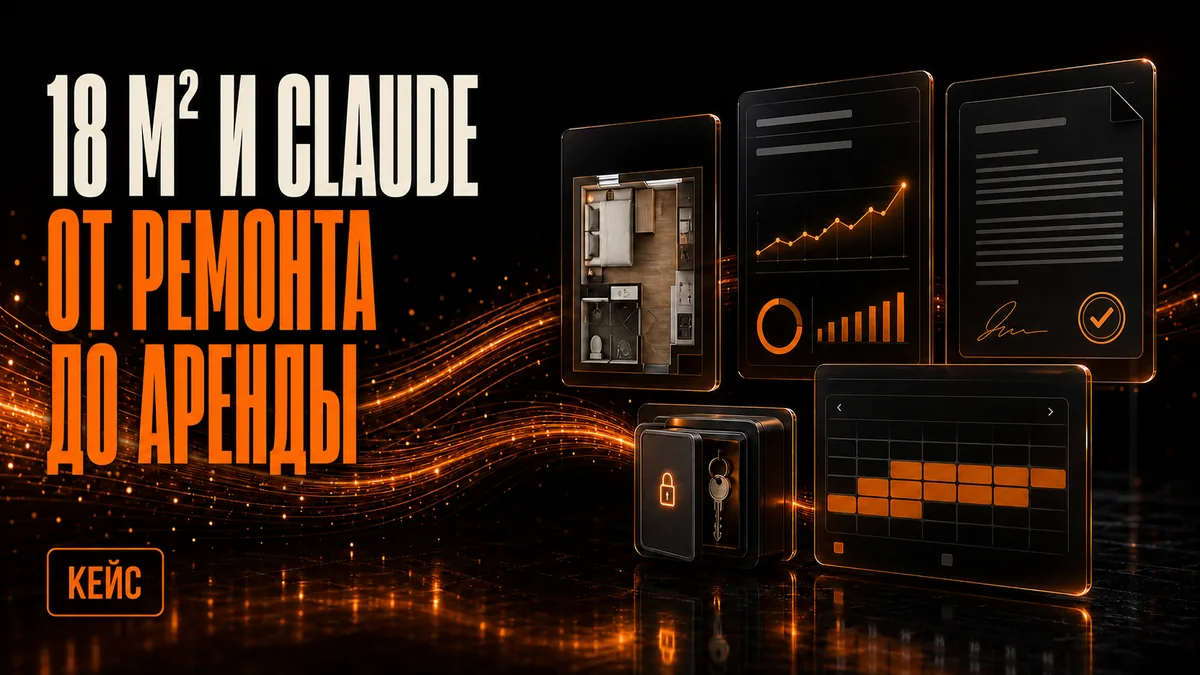
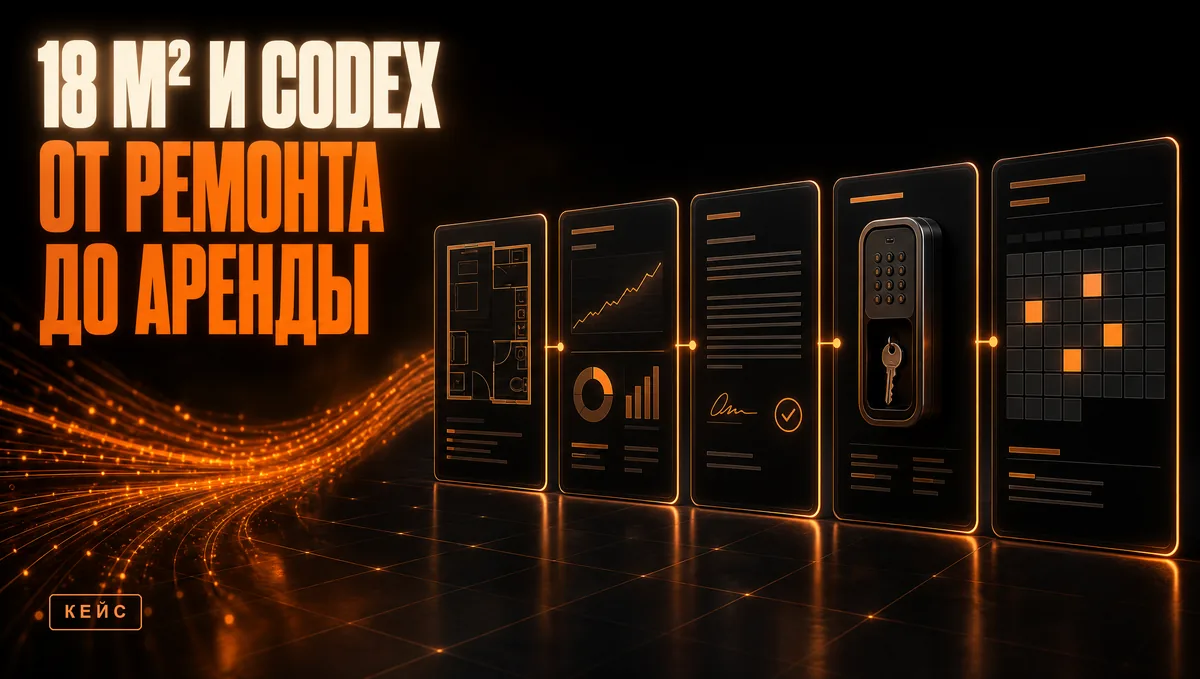
deploy: обновление блога (7 файл(ов))

diff --git a/blog/apartament-v-arendnyy-aktiv-s-ii.html b/blog/apartament-v-arendnyy-aktiv-s-ii.html
@@ -48,7 +48,7 @@ ym(111022672,'init',{ssr:true,webvisor:true,clickmap:true,ecommerce:"dataLayer",
 <link rel="preload" as="font" type="font/woff2" href="/fonts/inter-latin.woff2" crossorigin>
 <link rel="stylesheet" href="/blog/blog.css">
 <script type="application/ld+json">{"@context":"https://schema.org","@type":"Article","headline":"Как я превратил 18 м² в управляемый арендный актив с помощью ИИ","description":"Реальный кейс: как не гадать между продажей и посуточной арендой, проверить рынок, собрать комплектацию и договориться с управляющей компанией.","image":"https://nextgenclub.ru/blog/covers/c74-ai-property/cover.png","datePublished":"2026-08-06","dateModified":"2026-08-06","author":{"@type":"Person","name":"Виктор Дачников","url":"https://nextgenclub.ru/","jobTitle":"Основатель NextGen Media и NextGen Club, практик AI-автоматизации","knowsAbout":["вайбкодинг","Claude Code","нейросети для бизнеса","AI-автоматизация","AI-агенты","промпт-инжиниринг"]},"publisher":{"@type":"Organization","name":"NextGen Club","logo":{"@type":"ImageObject","url":"https://nextgenclub.ru/logo.png"}},"mainEntityOfPage":{"@type":"WebPage","@id":"https://nextgenclub.ru/blog/apartament-v-arendnyy-aktiv-s-ii"}}</script>
-<script type="application/ld+json">{"@context":"https://schema.org","@type":"FAQPage","mainEntity":[{"@type":"Question","name":"Можно ли доверить ИИ решение «продавать или сдавать»?","acceptedAnswer":{"@type":"Answer","text":"Нет. ИИ может собрать варианты, посчитать сценарии и показать недостающие данные. Но реальная цена сделки, качество управляющего и личная потребность в деньгах остаются решением владельца."}},{"@type":"Question","name":"Почему не сдать просто на долгосрок?","acceptedAnswer":{"@type":"Answer","text":"Это хороший вариант, если важна предсказуемость. Но в моём случае хотелось сохранить возможность показать объект покупателю и не подписывать договор, который заблокирует продажу."}},{"@type":"Question","name":"25% управляющему - это дорого?","acceptedAnswer":{"@type":"Answer","text":"Смотреть нужно не на процент отдельно, а на итоговую выплату после всех расходов. Если оператор берёт на себя заселение, уборки, расходники, коммуникацию и отчётность, его доля может быть оправдана. Но это проверяется первым отчётом, а не обещанием."}},{"@type":"Question","name":"Что проверить в акте передачи объекта?","acceptedAnswer":{"@type":"Answer","text":"Количество ключей и доступов, фото каждой зоны и техники, состояние мебели и текстиля, полный инвентарь, дефекты на старте и отсутствующие предметы. Пустой акт подписывать нельзя."}}]}</script>
+<script type="application/ld+json">{"@context":"https://schema.org","@type":"FAQPage","mainEntity":[{"@type":"Question","name":"Можно ли доверить нейросети решение «продавать или сдавать»?","acceptedAnswer":{"@type":"Answer","text":"Нет. Она соберёт варианты, посчитает сценарии и покажет недостающие данные. Реальная цена сделки, качество управляющего и твоя личная потребность в деньгах остаются решением человека."}},{"@type":"Question","name":"Нужно ли разбираться в теме, чтобы так работать?","acceptedAnswer":{"@type":"Answer","text":"Не обязательно разбираться заранее, но обязательно проверять. Я не эксперт в аренде. Схема работает потому, что каждый вывод нейросети проверялся звонком, поездкой или документом."}},{"@type":"Question","name":"Что делать с ошибками в собранных данных?","acceptedAnswer":{"@type":"Answer","text":"Считать их нормой. Часть условий операторов не подтвердилась при созвоне. Поэтому в таблице и была колонка «подтверждено или нет»: она превращает список из «правды» в список гипотез для проверки."}},{"@type":"Question","name":"Что проверить в акте передачи объекта?","acceptedAnswer":{"@type":"Answer","text":"Количество ключей и доступов, фото каждой зоны и техники, состояние мебели и текстиля, полный инвентарь, дефекты на старте и отсутствующие предметы. Пустой акт подписывать нельзя."}}]}</script>
 </head>
 <body>
 
@@ -79,7 +79,7 @@ ym(111022672,'init',{ssr:true,webvisor:true,clickmap:true,ecommerce:"dataLayer",
         <span class="dot"></span>
         <time datetime="2026-08-06">6 августа 2026</time>
         <span class="dot"></span>
-        <span>8 минут</span>
+        <span>9 минут</span>
       </div>
     </div>
   </header>
@@ -91,99 +91,83 @@ ym(111022672,'init',{ssr:true,webvisor:true,clickmap:true,ecommerce:"dataLayer",
       <path d="M13 2L3 14h9l-1 8 10-12h-9l1-8z"/>
     </svg>
   </div>
-  <div class="lead-block-body"><p><strong>Что ты получишь, прочитав этот кейс</strong></p><ul><li>Увидишь, как проверить инвестиционную гипотезу не по красивым обещаниям, а по рынку, договорам и реальным расходам.</li><li>Поймёшь, почему «80% загрузки» ещё не является доходностью.</li><li>Получишь схему выбора управляющей компании для посуточной аренды.</li><li>Узнаешь, какие пункты в договоре реально важны владельцу.</li><li>Увидишь, где ИИ оказался полезен не для текста, а для принятия решения в реальной жизни.</li></ul></div>
+  <div class="lead-block-body"><p><strong>Что ты получишь, прочитав этот кейс</strong></p><ul><li>Увидишь на реальной задаче, что именно нейросеть делает за тебя, а что не делает никогда.</li><li>Заберёшь пять готовых сценариев работы: разбор рынка, экономика, поиск подрядчиков, закупка, договор.</li><li>Посмотришь на настоящие таблицы, которые собрал Codex, а не на описание «мы провели анализ».</li><li>Поймёшь, почему таблица подрядчиков экономит недели, даже если ты про их сферу ничего не знаешь.</li><li>Увидишь, где ИИ ошибается и что обязательно приходится проверять руками.</li></ul></div>
 </div>
-<p>У меня есть апартамент 18 м² в N’ICE LOFT. Ремонт почти закончен, мебель стоит, ипотека идёт. На бумаге всё выглядит как готовый инвестиционный объект. В реальности был набор неудобных вопросов.</p>
-<p>Продавать сейчас или ждать? Сдавать посуточно или на долгосрок? Верить ли обещанию управляющего «70-90 тысяч чистыми»? Какие расходы я вообще не учёл? И как не подписать договор, из которого потом нельзя нормально выйти?</p>
-<p>Обычно на этом месте человек открывает пять вкладок, пишет трём риелторам, получает три противоречивых ответа и откладывает решение ещё на месяц. Я решил собрать всё в один рабочий процесс вместе с ИИ.</p>
-<p>Это не история «нейросеть купила квартиру за меня». И не кейс с нарисованной доходностью. Объект только запускается, и реальные отчёты ещё впереди. Но за несколько итераций мы превратили хаос из переписок, фото, договоров, маркетплейсов и чужих обещаний в понятный план действий.</p>
-<div class="callout callout-main"><div class="callout-body"><p class="callout-label">Главное</p><p>ИИ здесь был не советчиком в стиле «держите недвижимость». Он стал аналитиком, редактором договоров, закупщиком, помощником по переговорам и контролёром деталей. Решение всё равно оставалось за мной.</p></div></div>
-<h2 id="с-чего-началась-задача">С чего началась задача</h2>
-<p>Было три сценария.</p>
+<p>У меня есть апартамент 18 м² в N'ICE LOFT. Ремонт почти закончен, мебель стоит, ипотека идёт. Нужно было решить: продавать, сдавать на долгосрок или запускать посуточную аренду.</p>
+<p>Это не статья про недвижимость. Я в ней не эксперт. Это статья про то, как человек без экспертизы в чужой сфере за несколько дней проходит путь, на который обычно уходят недели, потому что рядом есть инструмент, который не устаёт читать, считать и сверять.</p>
+<p>Всю аналитическую работу делал Codex. Я задавал вопросы, проверял факты и принимал решения.</p>
+<div class="callout callout-main"><div class="callout-body"><p class="callout-label">Главное</p><p>Codex здесь не советчик в стиле «держите недвижимость». Он аналитик, закупщик, переговорщик-черновик и юрист-подмастерье. Он собирает то, что человек физически не успевает собрать, а решение всё равно остаётся за человеком.</p></div></div>
+<h2 id="что-я-отдал-нейросети-а-что-оставил-себе">Что я отдал нейросети, а что оставил себе</h2>
+<p>Отдал:</p>
 <ol>
-<li>Продать апартамент сразу и зафиксировать результат.</li>
-<li>Сдать на долгосрок, чтобы хотя бы перекрывать ипотеку.</li>
-<li>Запустить посуточную аренду и проверить, может ли объект стать активом, а не постоянным расходом.</li>
+<li>разбор рынка и чата собственников;</li>
+<li>экономику по всем сценариям;</li>
+<li>поиск управляющих компаний и сведение их в одну таблицу;</li>
+<li>список закупок с артикулами, ценами и приоритетом;</li>
+<li>визуализацию мебели и техники до покупки;</li>
+<li>сверку договора с перепиской и подготовку правок.</li>
 </ol>
-<p>Проблема в том, что каждый сценарий опирался на разные цифры. Цена в объявлении не равна цене сделки. Рекламная ставка посуточно не равна поступлению владельцу. А сумма всех платежей по ипотеке не равна сумме, которую ты получишь после продажи.</p>
-<p>Поэтому мы не начали с ответа. Мы начали с карты неизвестных.</p>
-<h2 id="сначала-проверили-есть-ли-вообще-спрос">Сначала проверили, есть ли вообще спрос</h2>
-<p>Мы разобрали предложения в самом N’ICE LOFT, посмотрели долгосрок и посуточную выдачу, а также сообщения собственников за несколько месяцев.</p>
-<p>Картина оказалась сложнее, чем в презентации инвест-проекта. В посуточной выдаче было много почти одинаковых студий, а заметную часть предложения вёл профессиональный оператор. Это важный момент: конкурировать приходится не с отдельным владельцем, который ответит гостю через час, а с компанией с мгновенным бронированием, шаблонами, клинингом и уже настроенными площадками.</p>
-<p>Из этого сразу убрали плохую идею: не считать будущие 80% загрузки как гарантированный факт. Для обычной студии нужно смотреть на реализованную ставку, календарь, число уборок, комиссию площадок и управляющего. И только потом на красивую цифру «за сутки».</p>
-<p>Долгосрок оказался спокойнее, но не дал бы нужной гибкости. Если появится покупатель, арендатора придётся либо ждать, либо договариваться. Посуточка оставляет объект доступным для просмотров и потенциально даёт больше выручки, но требует нормального управления.</p>
-<h2 id="потом-собрали-экономику-без-самообмана">Потом собрали экономику без самообмана</h2>
-<p>В расчёт вошло не только «купил за X, продам за Y».</p>
-<ul>
-<li>остаток ипотеки и график платежей;</li>
-<li>проценты, которые уже уплачены банку;</li>
-<li>первоначальный взнос;</li>
-<li>ремонт, мебель и оставшаяся доплата подрядчику;</li>
-<li>коммуналка;</li>
-<li>агентское вознаграждение при продаже;</li>
-<li>НДФЛ и документы, которые могут подтвердить расходы;</li>
-<li>возможный доход от аренды до продажи.</li>
-</ul>
-<p>Самый полезный эффект был не в одной финальной цифре. Мы сделали несколько сценариев: продажа за разные цены, аренда на несколько месяцев, консервативная и оптимистичная посуточная загрузка. Сразу стало видно, где деньги действительно возвращаются, а где я просто считаю свою же выплату банку как прибыль.</p>
-<p>Это особенно важно в недвижимости. Легко сказать «я вложил три миллиона и достану четыре». Но часть денег ушла в проценты, часть ещё висит в кредите, часть зависит от налоговой базы и документов. Хорошее решение начинается там, где эти вещи разведены по разным строкам.</p>
-<h2 id="съездили-в-объект-и-превратили-ремонт-в-продукт">Съездили в объект и превратили ремонт в продукт</h2>
-<p>У апартамента был ремонт и основная мебель, но не было десятка мелочей, из-за которых объект нельзя нормально запустить: постельного белья, части посуды, полотенец, средств для уборки, сушилки, швабры, ведра, крючков для штор и так далее.</p>
+<p>Оставил себе: поездку на объект, звонки, проверку фактов, подпись и само решение.</p>
+<p>Дальше по шагам, что именно происходило.</p>
+<h2 id="шаг-1-разобрать-рынок-и-чат-собственников">Шаг 1. Разобрать рынок и чат собственников</h2>
+<p>Первое, что я скормил Codex, это выгрузка из чата собственников N'ICE LOFT за несколько месяцев плюс то, что публично висит по комплексу: объявления на Авито, ЦИАН и в посуточной выдаче.</p>
+<p>Человек такой массив читает вечерами неделю и всё равно держит в голове только последние десять сообщений. Codex прочитал всё сразу и вернул сводку: сколько похожих студий сдаётся, кто их ведёт, какие ставки заявлены, кто из соседей уже обжёгся и на чём.</p>
+<p>Картина оказалась сложнее презентации инвест-проекта. В посуточной выдаче много почти одинаковых студий, а заметную часть предложения ведёт профессиональный оператор. Конкурировать пришлось бы не с соседом, который ответит гостю через час, а с компанией с мгновенным бронированием, шаблонами, клинингом и настроенными площадками.</p>
+<p>Отсюда сразу выпал главный самообман: не считать обещанные 80% загрузки фактом. Смотреть надо на реализованную ставку, календарь, число уборок и комиссии, и только потом на красивую цифру за сутки.</p>
+<h2 id="шаг-2-собрать-экономику-без-самообмана">Шаг 2. Собрать экономику без самообмана</h2>
+<p>Дальше Codex собрал расчёт. Не «купил за X, продам за Y», а полную картину: остаток ипотеки и график платежей, уже уплаченные проценты, первоначальный взнос, ремонт и доплату подрядчику, коммуналку, агентское при продаже, НДФЛ с учётом подтверждающих документов и возможный доход от аренды до продажи.</p>
+<p>Ценность была не в финальной цифре, а в том, что он развёл сценарии: продажа по разным ценам, долгосрок на несколько месяцев, консервативная и оптимистичная посуточная загрузка. Сразу стало видно, где деньги действительно возвращаются, а где я считаю прибылью собственную выплату банку.</p>
+<p>Это тот тип работы, который человек делает плохо не от глупости, а от усталости. Через сорок минут в таблице начинаешь округлять и забывать статьи расходов. Нейросеть не устаёт и не жалеет твою гипотезу.</p>
+<h2 id="шаг-3-найти-операторов-и-свести-в-таблицу">Шаг 3. Найти операторов и свести в таблицу</h2>
+<p>Вот момент, ради которого стоило всё это затевать.</p>
+<p>Я попросил найти управляющие компании, которые реально берут в управление апартаменты в этом комплексе и рядом. Codex собрал их в одну таблицу: кто это, подтверждено ли присутствие в N'ICE LOFT, какая комиссия и от какой базы, что входит в услугу, какие условия выхода, плюс контакты для связи. Отдельным блоком он написал, что именно запрашивать у каждого: P&L по студиям 17-20 м² за последние 2-3 месяца, базу комиссии, все расходы, срок выхода из договора и ответственность за ущерб.</p>
+<figure class="article-img"><img src="/blog/covers/c74-ai-property/table-operatory.webp" alt="Таблица управляющих компаний, собранная Codex: условия, комиссии и что запросить у каждой" loading="lazy"><figcaption>Таблица управляющих компаний, собранная Codex: условия, комиссии и что запросить у каждой</figcaption></figure>
+<p>По этой таблице я и работал. Просто шёл сверху вниз и писал.</p>
+<p>Обрати внимание, что это не «нейросеть посоветовала лучшую компанию». Это список кандидатов с проверяемыми полями и с честными пометками там, где присутствие в комплексе не подтвердилось. Дальше нужен был человек: написать, созвониться, услышать интонацию и понять, кто отвечает по делу, а кто продаёт мечту.</p>
+<p>Разница простая. Сам бы я нашёл двух операторов, которые чаще всех мелькают в рекламе, и выбирал бы из двух. С таблицей выбор шёл из списка, и вопросы у всех были одинаковые, поэтому ответы стало можно сравнивать.</p>
+<h2 id="шаг-4-комплектация-сначала-таблица-потом-деньги">Шаг 4. Комплектация: сначала таблица, потом деньги</h2>
+<p>У апартамента был ремонт и мебель, но не было десятка мелочей, без которых объект не запустить: белья, части посуды, полотенец, средств для уборки, сушилки, швабры, ведра, крючков.</p>
 <figure class="article-img"><img src="/blog/covers/c74-ai-property/apt-1.webp" alt="Студия 18 м²: кровать, обеденная зона и кухонный блок" loading="lazy"><figcaption>Студия 18 м²: кровать, обеденная зона и кухонный блок</figcaption></figure>
-<p>Вот как выглядят эти 18 метров. Кровать, кухонный блок, стол на двоих и проход в санузел. Всё, что нужно гостю, помещается, но каждая полка на счету.</p>
-<p>Мы не стали покупать всё подряд. По фото и замерам составили три списка:</p>
-<ul>
-<li><strong>можно заказывать сразу</strong>: то, что точно понадобится любому гостю;</li>
-<li><strong>нужно проверить на месте</strong>: размеры, розетки, наличие техники, место под холодильник;</li>
-<li><strong>стоп до согласования с оператором</strong>: то, что зависит от их стандарта заселения и прачки.</li>
-</ul>
-<figure class="article-img"><img src="/blog/covers/c74-ai-property/apt-2.webp" alt="Прихожая апартамента: открытый стеллаж, шкаф во всю стену и входная зона" loading="lazy"><figcaption>Прихожая апартамента: открытый стеллаж, шкаф во всю стену и входная зона</figcaption></figure>
-<p>Входная зона решает больше, чем кажется. Здесь живут ключи, обувь гостя, верхняя одежда и место под кейбокс. Открытые полки удобны для заселения, но их видно на фото в объявлении, поэтому пустыми они быть не должны.</p>
-<p>Отдельно разобрали хранение посуды, место под холодильник, кейбокс и расположение стола. Даже такие мелочи влияют на запуск сильнее, чем кажется. Хорошая посуточная квартира - это не «красивый рендер», а объект, в котором есть где сушить бельё, где хранить чистые полотенца и как безопасно передать ключ гостю.</p>
+<p>Вот эти 18 метров. Кровать, кухонный блок, стол на двоих и проход в санузел. Всё нужное помещается, но каждая полка на счету.</p>
+<p>По фото и замерам Codex собрал таблицу закупок: что купить, сколько, за сколько, ссылка на маркетплейс, артикул и колонка «зачем». И, что важнее, разложил её по приоритету: блок «можно заказать сейчас», блок «утвердить с управляющей» и блок «проверить на месте».</p>
+<figure class="article-img"><img src="/blog/covers/c74-ai-property/table-pokupki.webp" alt="Таблица закупок с ценами, артикулами и приоритетом, собранная Codex" loading="lazy"><figcaption>Таблица закупок с ценами, артикулами и приоритетом, собранная Codex</figcaption></figure>
+<p>Первый блок я оформил одним заказом, не думая. Второй ждал ответа оператора, потому что стандарт текстиля и прачки у них свой. Третий поехал со мной на объект: розетки, размеры, место под холодильник.</p>
+<p>Отдельно Codex сделал визуализации. Прежде чем покупать мебель и холодильник, он отрисовал, как они встанут в конкретный угол при конкретных размерах. Звучит как мелочь, ровно до того момента, когда холодильник не открывается, потому что упирается в кухонный блок.</p>
+<figure class="article-img"><img src="/blog/covers/c74-ai-property/apt-2.webp" alt="Прихожая: открытый стеллаж, шкаф во всю стену и входная зона" loading="lazy"><figcaption>Прихожая: открытый стеллаж, шкаф во всю стену и входная зона</figcaption></figure>
+<p>Входная зона решает больше, чем кажется. Здесь живут ключи, обувь и место под кейбокс. Открытые полки удобны при заселении, но их видно на фото в объявлении, поэтому пустыми они быть не должны.</p>
 <figure class="article-img"><img src="/blog/covers/c74-ai-property/apt-3.webp" alt="Санузел: стиральная машина под раковиной, полотенцесушитель и душевая" loading="lazy"><figcaption>Санузел: стиральная машина под раковиной, полотенцесушитель и душевая</figcaption></figure>
-<p>Санузел на такой площади это отдельная задача. Стиральная машина уходит под раковину, полотенца и швабра живут на стене, а сушить бельё в студии больше негде, поэтому сушилка попала в список обязательных покупок, а не «на потом».</p>
-<h2 id="не-поверили-одной-управляющей-компании">Не поверили одной управляющей компании</h2>
-<p>Параллельно я написал нескольким операторам, которые берут апартаменты в управление. Вопросы были одинаковые:</p>
-<ul>
-<li>какую комиссию они берут и от какой базы;</li>
-<li>кто оплачивает комиссию агрегаторов;</li>
-<li>сколько в среднем уборок в месяц;</li>
-<li>кто платит за расходники и мелкий ремонт;</li>
-<li>какая загрузка подтверждена похожими студиями;</li>
-<li>как часто приходят деньги и отчёты;</li>
-<li>можно ли забронировать апартамент под себя;</li>
-<li>как быстро можно выйти из договора или выставить объект на продажу.</li>
-</ul>
-<p>Это дало несравнимо больше, чем вопрос «а сколько я буду получать?». Кто-то обещал фиксированную доходность, кто-то не мог внятно разложить расходы. В итоге выбрали оператора, который готов работать прозрачно: минимум две ночи на бронь, кабинет с календарём и бронированиями, отчётность и понятная логика расходов.</p>
-<h2 id="договор-где-деньги-обычно-теряются-уже-после-подписи">Договор: где деньги обычно теряются уже после подписи</h2>
-<p>Перед подписанием управляющая прислала шаблон договора. Мы сверили его с перепиской и подготовили список правок. В результате в версии на подпись появились условия, которые реально защищают владельца.</p>
-<div class="table-wrap"><table><thead><tr><th>Что зафиксировали</th><th>Зачем это нужно</th></tr></thead><tbody><tr><td>Расторжение по инициативе собственника за 15 дней</td><td>Не зависеть от оператора годами, если сервис не устраивает</td></tr><tr><td>Уведомление о продаже за 30 дней</td><td>Не потерять возможность продать объект</td></tr><tr><td>Показы покупателям с уведомлением за 72 часа</td><td>Сохранить брони и всё же иметь доступ к объекту</td></tr><tr><td>Два платежа в месяц</td><td>Не ждать весь доход до конца месяца</td></tr><tr><td>Согласование ремонта дороже 5 000 ₽</td><td>Не получить неожиданный счёт за «мелкие работы»</td></tr><tr><td>Фотофиксация и акт передачи</td><td>Понимать, в каком состоянии объект был передан и возвращён</td></tr></tbody></table></div>
-<p>Также отдельно уточнили базу для комиссии. Площадки удерживают свою комиссию с гостя, а оператор получает 25% от выручки, которая остаётся после этой комиссии. Это не делает модель автоматически выгодной, но снимает опасную ситуацию, когда один и тот же расход вычитается дважды.</p>
-<div class="callout callout-tip"><div class="callout-icon">💡</div><div class="callout-body"><p class="callout-label">Совет</p><p>Если управляющий говорит «в наши 25% всё включено», не останавливайся на этой фразе. Попроси нарисовать один месяц на цифрах: ставка, загрузка, комиссия площадки, клининг, расходники, доля оператора и выплата тебе. Один пример сразу показывает, где расход спрятан.</p></div></div>
+<p>Санузел на такой площади это отдельная задача. Стиральная машина уходит под раковину, полотенца и швабра живут на стене, а сушить бельё в студии больше негде, поэтому сушилка попала в обязательные покупки, а не в «на потом».</p>
+<h2 id="шаг-5-договор-где-деньги-теряются-уже-после-подписи">Шаг 5. Договор, где деньги теряются уже после подписи</h2>
+<p>Оператор прислал шаблон. Здесь Codex сделал то, на что у человека обычно не хватает терпения: положил рядом текст договора и всю переписку и нашёл расхождения. Где на словах было одно, а в тексте другое. Где условие вообще не описано. Где формулировка допускает два прочтения, и второе не в мою пользу.</p>
+<p>По его разбору я собрал список правок. В версию на подпись вошли:</p>
+<div class="table-wrap"><table><thead><tr><th>Что зафиксировали</th><th>Зачем это нужно</th></tr></thead><tbody><tr><td>Расторжение по инициативе собственника за 15 дней</td><td>Не зависеть от оператора годами, если сервис не устраивает</td></tr><tr><td>Уведомление о продаже за 30 дней</td><td>Не потерять возможность продать объект</td></tr><tr><td>Показы покупателям с уведомлением за 72 часа</td><td>Сохранить брони и всё же иметь доступ к объекту</td></tr><tr><td>Два платежа в месяц</td><td>Не ждать весь доход до конца месяца</td></tr><tr><td>Согласование ремонта дороже 5 000 ₽</td><td>Не получить неожиданный счёт за «мелкие работы»</td></tr><tr><td>Фотофиксация и акт передачи</td><td>Понимать, в каком состоянии объект передан и возвращён</td></tr></tbody></table></div>
+<p>Отдельно уточнили базу комиссии. Площадки удерживают своё с гостя, оператор берёт свой процент от того, что осталось после этой комиссии. Это не делает модель автоматически выгодной, но снимает ситуацию, когда один и тот же расход вычитается дважды.</p>
+<div class="callout callout-tip"><div class="callout-icon">💡</div><div class="callout-body"><p class="callout-label">Совет</p><p>Если управляющий говорит «в наш процент всё включено», не останавливайся на этой фразе. Попроси расписать один месяц по шагам: ставка, загрузка, комиссия площадки, клининг, расходники, доля оператора и выплата тебе. Один такой пример сразу показывает, где спрятан расход. Этот запрос тоже удобно готовить с нейросетью: она не постесняется задать восемь неудобных вопросов подряд.</p></div></div>
 <h2 id="что-получилось-на-выходе">Что получилось на выходе</h2>
-<p>Вместо ощущения «я вложил деньги и теперь не понимаю, что происходит» появилась рабочая система.</p>
+<p>Честный итог такой. Никакой подтверждённой доходности у меня пока нет, объект только запускается. Есть другое:</p>
 <ul>
-<li>есть честная развилка между продажей, долгосроком и посуточкой;</li>
-<li>есть консервативная экономика, а не обещанная доходность;</li>
-<li>объект укомплектован по списку, а не на глаз;</li>
-<li>есть выбранный оператор и понятная ответственность сторон;</li>
-<li>есть возможность выйти из управления, продать объект и контролировать крупные расходы;</li>
-<li>есть список того, что проверить в первом отчёте после запуска.</li>
+<li>развилка между продажей, долгосроком и посуточкой разобрана на цифрах, а не на ощущениях;</li>
+<li>экономика посчитана консервативно, с учётом статей, о которых я бы забыл;</li>
+<li>объект укомплектован по списку с приоритетами, а не «куплю ещё что-нибудь по дороге»;</li>
+<li>оператор выбран из списка кандидатов, а не из двух самых рекламируемых;</li>
+<li>договор даёт право выхода, продажу объекта и контроль крупных расходов;</li>
+<li>есть список того, что проверить в первом отчёте.</li>
 </ul>
-<p>Самое важное: я не зацементировал решение. Посуточная аренда для меня сейчас - тест с контролируемым выходом, а не обязательство на годы. Через первый месяц будут реальные цифры загрузки, ставок и чистой выплаты. Тогда можно будет решить, держать актив дальше или возвращаться к продаже уже не по тревоге, а по данным.</p>
-<h2 id="где-ии-реально-помог-а-где-нет">Где ИИ реально помог, а где нет</h2>
-<p>Он хорошо справился с тем, что люди обычно не любят делать: свести длинные переписки, не забыть расход, сравнить договоры, построить сценарии, разложить закупку, подготовить сообщения операторам и найти противоречия в их ответах.</p>
-<p>Но ИИ не может заменить проверку фактов. Он не видел фактическую загрузку до первого отчёта. Не мог за меня измерить розетку за шкафом. Не может гарантировать, что цена апартамента вырастет. Здесь всё равно нужны фото, документы, звонки, подписи и нормальная работа оператора.</p>
-<p>Именно поэтому это рабочая связка: ИИ ускоряет анализ и не даёт утонуть в деталях, а человек подтверждает реальность и принимает решение.</p>
+<p>Посуточная аренда для меня сейчас управляемый тест с правом выхода, а не обязательство на годы. Реальную загрузку и чистую выплату буду смотреть по первому отчёту, а не по презентации управляющего.</p>
+<h2 id="где-ии-помог-а-где-нет">Где ИИ помог, а где нет</h2>
+<p>Помог там, где нужно перелопатить объём и не устать: прочитать чат за месяцы, собрать таблицу подрядчиков, не забыть расход, сравнить договор с перепиской, разложить закупку по приоритету, подготовить неудобные вопросы.</p>
+<p>Не помог и не поможет вот в чём. Он не видел фактическую загрузку до первого отчёта. Не измерил розетку за шкафом. Не услышал по телефону, что менеджер плавает в собственных цифрах. Часть данных по операторам оказалась неточной, и это выяснялось только звонком.</p>
+<p>Поэтому связка выглядит так: нейросеть даёт скорость и полноту, человек даёт проверку и ответственность. Меняешь местами, получаешь красиво оформленную ошибку.</p>
 <div class="faq-block">
 <h2 class="faq-title">Частые вопросы</h2>
-<details class="faq-item"><summary>Можно ли доверить ИИ решение «продавать или сдавать»?</summary><div class="faq-answer">Нет. ИИ может собрать варианты, посчитать сценарии и показать недостающие данные. Но реальная цена сделки, качество управляющего и личная потребность в деньгах остаются решением владельца.</div></details>
-<details class="faq-item"><summary>Почему не сдать просто на долгосрок?</summary><div class="faq-answer">Это хороший вариант, если важна предсказуемость. Но в моём случае хотелось сохранить возможность показать объект покупателю и не подписывать договор, который заблокирует продажу.</div></details>
-<details class="faq-item"><summary>25% управляющему - это дорого?</summary><div class="faq-answer">Смотреть нужно не на процент отдельно, а на итоговую выплату после всех расходов. Если оператор берёт на себя заселение, уборки, расходники, коммуникацию и отчётность, его доля может быть оправдана. Но это проверяется первым отчётом, а не обещанием.</div></details>
+<details class="faq-item"><summary>Можно ли доверить нейросети решение «продавать или сдавать»?</summary><div class="faq-answer">Нет. Она соберёт варианты, посчитает сценарии и покажет недостающие данные. Реальная цена сделки, качество управляющего и твоя личная потребность в деньгах остаются решением человека.</div></details>
+<details class="faq-item"><summary>Нужно ли разбираться в теме, чтобы так работать?</summary><div class="faq-answer">Не обязательно разбираться заранее, но обязательно проверять. Я не эксперт в аренде. Схема работает потому, что каждый вывод нейросети проверялся звонком, поездкой или документом.</div></details>
+<details class="faq-item"><summary>Что делать с ошибками в собранных данных?</summary><div class="faq-answer">Считать их нормой. Часть условий операторов не подтвердилась при созвоне. Поэтому в таблице и была колонка «подтверждено или нет»: она превращает список из «правды» в список гипотез для проверки.</div></details>
 <details class="faq-item"><summary>Что проверить в акте передачи объекта?</summary><div class="faq-answer">Количество ключей и доступов, фото каждой зоны и техники, состояние мебели и текстиля, полный инвентарь, дефекты на старте и отсутствующие предметы. Пустой акт подписывать нельзя.</div></details>
 </div>
 <h2 id="коротко">Коротко</h2>
-<p>Недвижимость - хороший пример того, где ИИ полезен не как генератор текста. Он собирает в одну картину рынок, финансы, комплектацию, переписку и договор. И не даёт сделать дорогую ошибку только потому, что ты устал разбираться.</p>
-<p>Если у тебя есть объект, который «вроде должен приносить», но пока требует только денег и нервов, начни не с поиска волшебного арендатора. Сначала собери все цифры, риски и условия выхода. После этого решение обычно становится гораздо спокойнее.</p>
+<p>Недвижимость оказалась хорошим примером того, где нейросеть полезна не как генератор текста. Она собирает в одну картину рынок, финансы, подрядчиков, закупку и договор. И не даёт совершить дорогую ошибку просто потому, что ты устал разбираться.</p>
+<p>Если у тебя есть объект или проект, который «вроде должен приносить», но пока требует только денег и нервов, начни не с поиска волшебного исполнителя. Собери цифры, список кандидатов, риски и условия выхода. После этого решение становится заметно спокойнее.</p>
 <p>Больше реальных рабочих сценариев с Claude, Codex и AI-инструментами разбираю в Telegram-канале <a href="https://t.me/+8vwtYYu7_3c2ZjUy" target="_blank" rel="noopener">Виктор Дачников | NEXTGEN</a>.</p>
 <div class="cta-block">
   <p class="cta-eyebrow">Лёгкий старт</p>

diff --git a/blog/index.html b/blog/index.html
@@ -96,7 +96,7 @@ ym(111022672,'init',{ssr:true,webvisor:true,clickmap:true,ecommerce:"dataLayer",
     <div class="post-card-meta">
       <time datetime="2026-08-06">6 августа 2026</time>
       <span class="dot"></span>
-      <span>8 минут</span>
+      <span>9 минут</span>
     </div>
   </div>
 </a>
